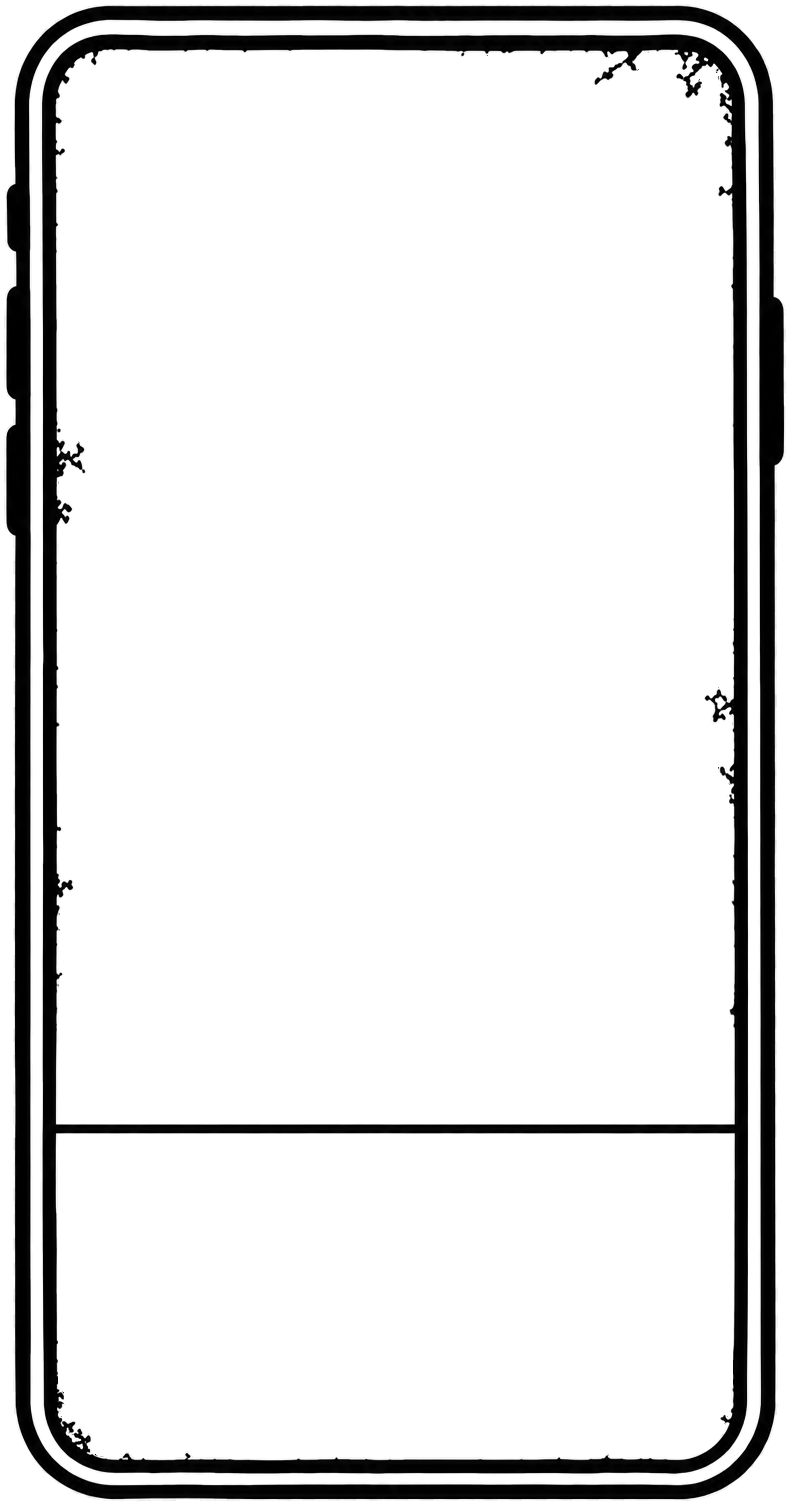
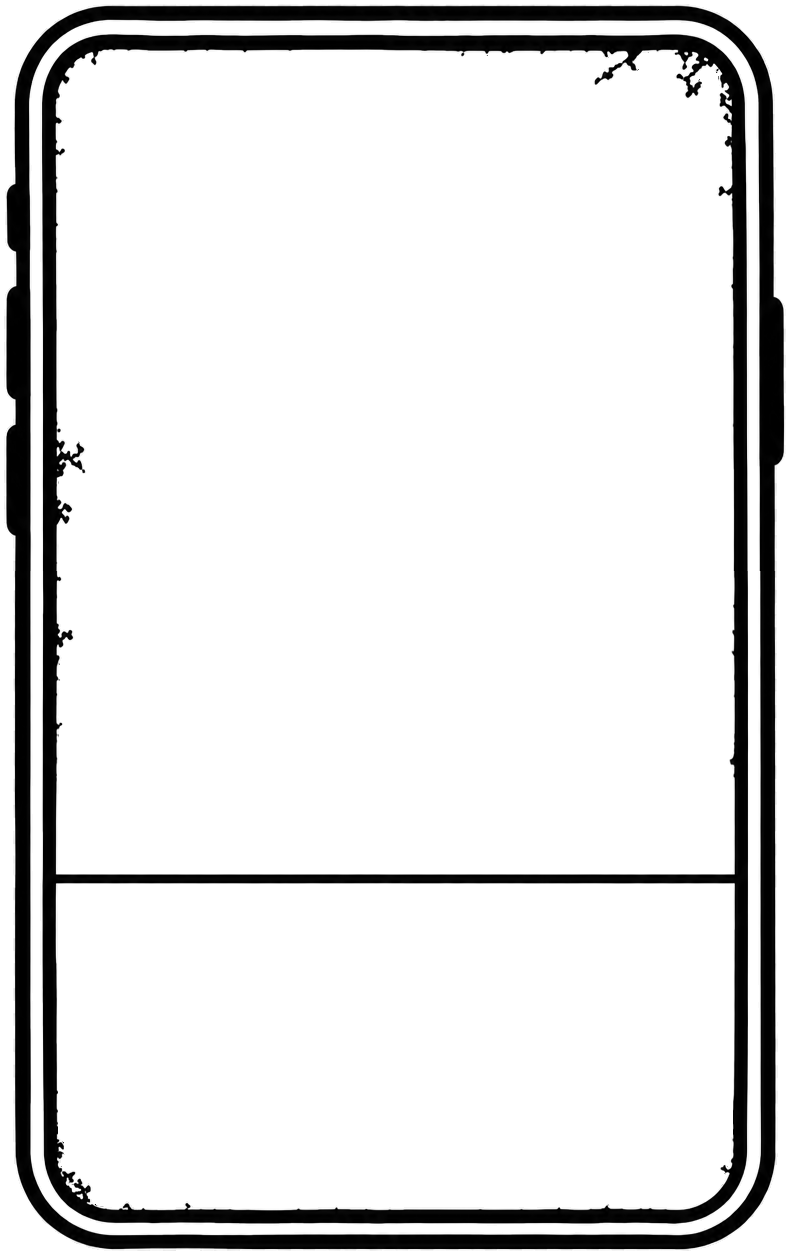
Phone: shorter hand-drawn frame, screen parts placed on its new positions

diff --git a/css/phone.css b/css/phone.css
@@ -1,14 +1,14 @@
-/* The phone: a hand-drawn frame (img/phone-frame.png, 790 x 1505 px) with three live parts on its screen.
+/* The phone: a hand-drawn frame (img/phone-frame.png, 790 x 1255 px) with three live parts on its screen.
    Every position is a percentage of that image, so the parts stay on the drawing at any size.
    Its height never passes the window's, so the notes and the keys are always seen together. */
-:root { --phone-width: min(600px, calc((100svh - 32px) * 790 / 1505)); }
-.phone { position: relative; width: min(100%, var(--phone-width)); aspect-ratio: 790 / 1505; container-type: inline-size;
+:root { --phone-width: min(480px, calc((100svh - 32px) * 790 / 1255)); }
+.phone { position: relative; width: min(100%, var(--phone-width)); aspect-ratio: 790 / 1255; container-type: inline-size;
   user-select: none; -webkit-user-select: none; -webkit-touch-callout: none; } /* swiping must never select text */
 .phone-frame { position: absolute; inset: 0; width: 100%; height: 100%; pointer-events: none; }
 
-/* The notes: inside the screen (x 56–733 px, y 50–1011 px), clear of the rounded corners.
+/* The notes: inside the screen (x 56–733 px, y 50–761 px), clear of the rounded corners.
    pre-wrap keeps the space after the last word visible, so the cursor sits where the next word will go. */
-.screen-text { position: absolute; left: 11%; width: 78%; top: 6.7%; height: 60.5%; margin: 0; overflow-y: auto;
+.screen-text { position: absolute; left: 11%; width: 78%; top: 8%; height: 52.6%; margin: 0; overflow-y: auto;
   font: 400 5.2cqw/1.4 var(--sans); white-space: pre-wrap; overflow-wrap: anywhere; scrollbar-width: none; }
 .screen-text::after { content: ""; display: inline-block; width: .1em; height: 1.15em; vertical-align: -.22em;
   background: var(--color-fg); animation: caret calc(1.1 * var(--1s)) steps(1) infinite; }
@@ -16,8 +16,8 @@
 .screen-text:empty::after { position: absolute; left: 0; top: .12em; } /* with no text yet, the cursor waits at the start */
 @keyframes caret { 50% { opacity: 0; } }
 
-/* The suggestion strip sits where the drawing had its message bar: x 58–731 px, y 1031–1123 px. */
-.suggestions { position: absolute; left: 7.3%; width: 85.2%; top: 68.5%; height: 6.1%;
+/* The suggestion strip sits where the drawing had its message bar: x 58–731 px, y 781–873 px. */
+.suggestions { position: absolute; left: 7.3%; width: 85.2%; top: 62.2%; height: 7.3%;
   display: grid; grid-template-columns: repeat(3, 1fr); align-items: center; }
 .suggestion { height: 80%; min-width: 0; padding: 0 4px; background: none; border: 0; border-radius: var(--border-radius);
   font: 400 4.3cqw var(--sans); color: var(--color-fg); cursor: pointer; overflow: hidden; text-overflow: ellipsis; white-space: nowrap; }
@@ -25,8 +25,8 @@
 .suggestion.written { font-weight: 700; }
 @media (hover: hover) { .suggestion:hover { background: var(--color-gray-100); } }
 
-/* The keyboard fills the screen's width below the divider line (y 1136 px). */
-.phone #keyboard { position: absolute; left: 7.3%; width: 85.2%; top: 75.5%; }
+/* The keyboard fills the screen's width below the divider line (y 886 px). */
+.phone #keyboard { position: absolute; left: 7.3%; width: 85.2%; top: 70.6%; }
 
 /* On a narrow screen the phone stands alone in the column: centre it. The frame stays, since the
    keyboard takes 85% of its width (keys ~29 px on a 390 px phone, about the same as without the frame). */
